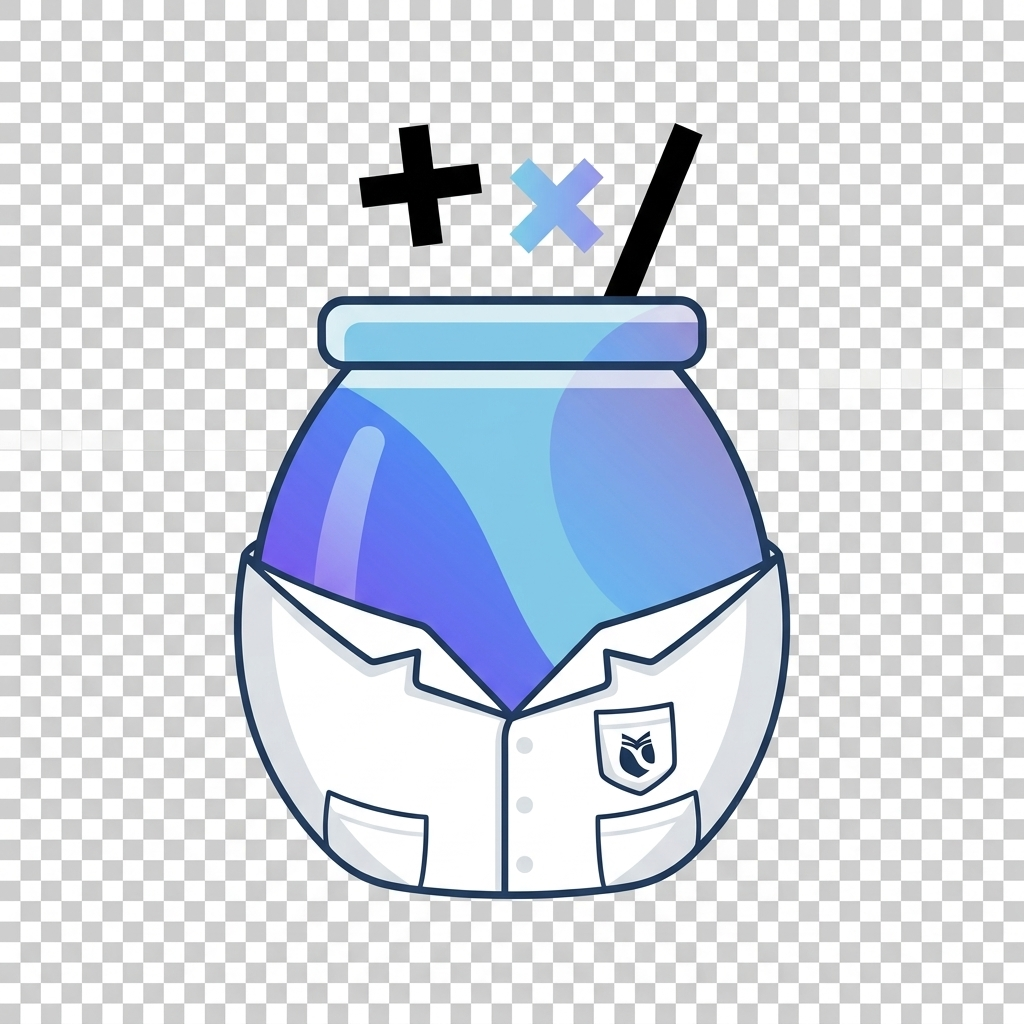
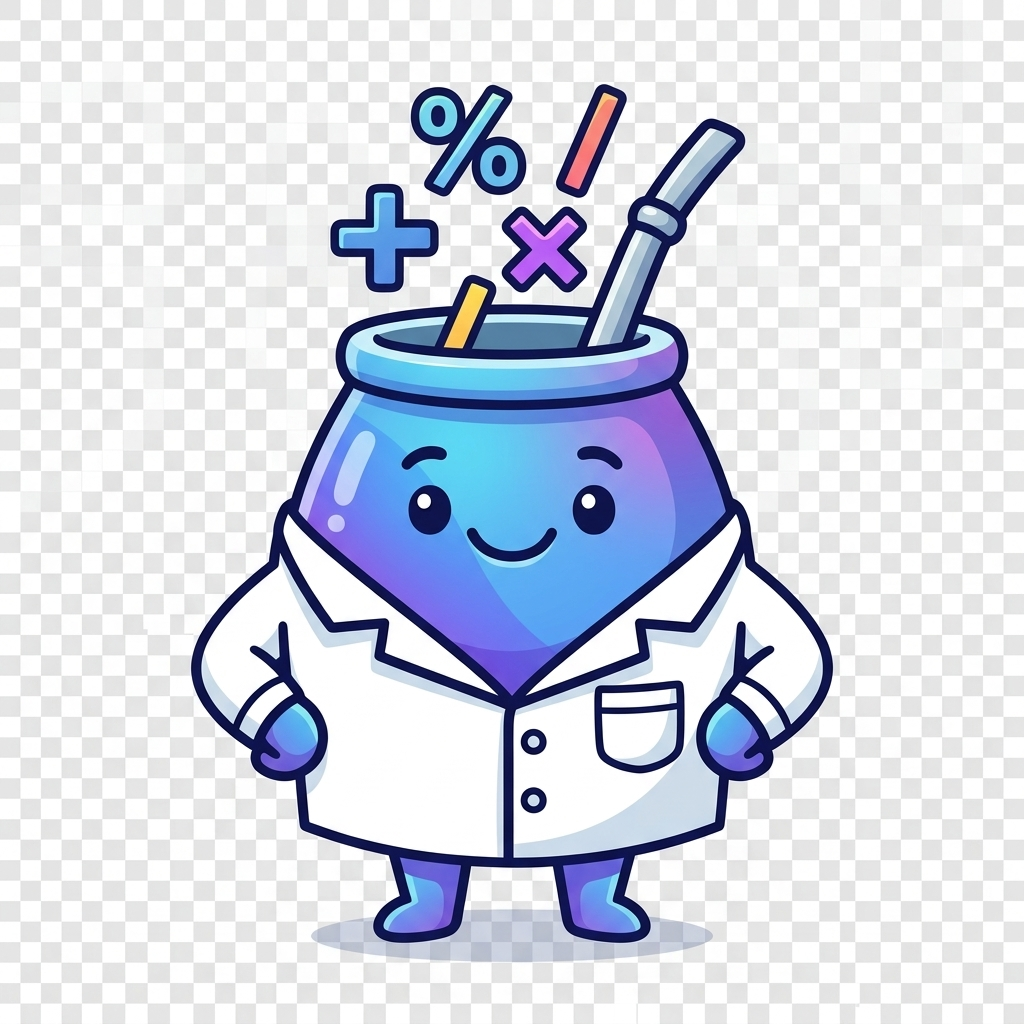
assets: actualizado import a mate_academico.webp e integrados assets de la carpeta de Eliana

diff --git a/frontend/src/components/FinalizacionCard.js b/frontend/src/components/FinalizacionCard.js
@@ -4,7 +4,7 @@ import '../styles/completo.css';
 import iconoNivel from '../assets/nivel.png';
 import mateEscolar from '../assets/mate_escolar.png';
 import mateProfesor from '../assets/mate_profesor.png';
-import mateAcademico from '../assets/mate_academico.png';
+import mateAcademico from '../assets/mate_academico.webp';
 
 function FinalizacionCard({
   onComplete,

diff --git a/frontend/src/components/Mascota.js b/frontend/src/components/Mascota.js
@@ -1,7 +1,7 @@
 import React from 'react';
 import mateEscolar from '../assets/mate_escolar.png';
 import mateProfesor from '../assets/mate_profesor.png';
-import mateAcademico from '../assets/mate_academico.png';
+import mateAcademico from '../assets/mate_academico.webp';
 
 /*
   MATE-MÁTICO — COMPONENTE MASCOTA (REACT CLÁSICO)

diff --git a/frontend/src/components/Profile.js b/frontend/src/components/Profile.js
@@ -3,7 +3,7 @@ import Mascota from './Mascota';
 import './Profile.css';
 import mateEscolar from '../assets/mate_escolar.png';
 import mateProfesor from '../assets/mate_profesor.png';
-import mateAcademico from '../assets/mate_academico.png';
+import mateAcademico from '../assets/mate_academico.webp';
 
 /*
   MATE-MÁTICO — COMPONENTE PERFIL

diff --git a/frontend/src/components/TarjetaProgreso.js b/frontend/src/components/TarjetaProgreso.js
@@ -4,7 +4,7 @@ import imgLeccion from '../assets/lección ok.png';
 import imgMedalla from '../assets/image 19.png';
 import mateEscolar from '../assets/mate_escolar.png';
 import mateProfesor from '../assets/mate_profesor.png';
-import mateAcademico from '../assets/mate_academico.png';
+import mateAcademico from '../assets/mate_academico.webp';
 
 function TarjetaProgreso({
   destinoAncla = "continuar",